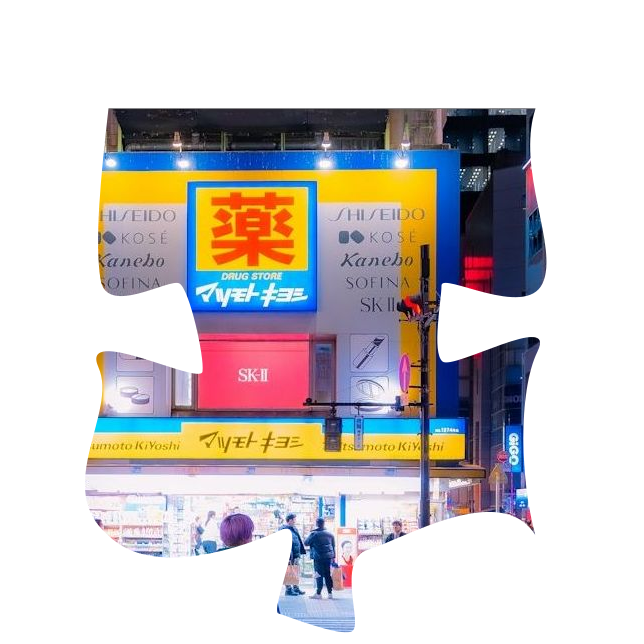
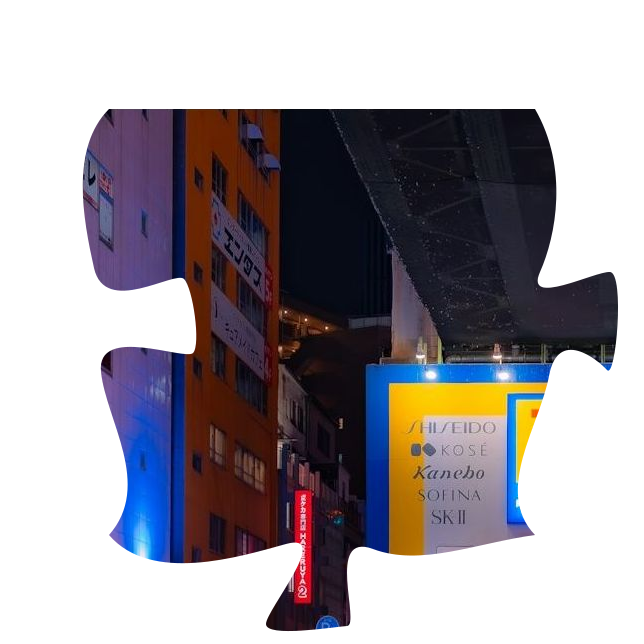
Cutting image into pieces complete.

diff --git a/server/src/service/game-builder.ts b/server/src/service/game-builder.ts
@@ -54,19 +54,23 @@ export const pathGenerator = ({
 export const createPieces = ({
   horizontalPaths,
   verticalPaths,
+  pieceSize,
 }: {
   horizontalPaths: string[];
   verticalPaths: string[];
+  pieceSize: number;
 }) => {
-  const piecesBuilder = new PiecesBuilder({
-    horizontalPaths,
-    verticalPaths,
-  });
+  const piecesBuilder = new PiecesBuilder(
+    {
+      horizontalPaths,
+      verticalPaths,
+    },
+    pieceSize
+  );
 
   // Extract the number of rows and columns from the paths
   const rows = piecesBuilder.horizontalCurves.length + 1;
   const cols = piecesBuilder.verticalCurves.length + 1;
-  const pieceSize = piecesBuilder.pieceSize;
 
   // Generate all curves. Creates curve objects for each path.
   piecesBuilder.generateAllCurves();
@@ -111,13 +115,6 @@ const cutImageToPuzzleSize = async ({
 
   const puzzleWidth = pieceSize * cols;
   const puzzleHeight = pieceSize * rows;
-
-  console.log('Puzzle dimensions:', {
-    puzzleWidth,
-    puzzleHeight,
-    imageWidth: metadata.width,
-    imageHeight: metadata.height,
-  });
 
   const buffer = await image
     .extract({
@@ -194,7 +191,6 @@ export const cutImageIntoPieces = async ({
   enclosedShapesSvg: string[][];
 }) => {
   const pieces: ImagePiece[] = [];
-  console.log({ pieceSize });
 
   // Create pieces_cut directory if it doesn't exist
   const piecesDir = path.join(process.cwd(), 'pieces_cut');
@@ -209,16 +205,6 @@ export const cutImageIntoPieces = async ({
     throw new Error('Invalid image dimensions');
   }
 
-  console.log('Original image dimensions:', {
-    width: metadata.width,
-    height: metadata.height,
-    pieceFootprint,
-    rows,
-    cols,
-    totalWidth: pieceFootprint * cols,
-    totalHeight: pieceFootprint * rows,
-  });
-
   // Cut the image to the puzzle size
   const puzzleImageCut = await cutImageToPuzzleSize({
     imageBuffer,
@@ -227,35 +213,15 @@ export const cutImageIntoPieces = async ({
     cols,
   });
 
-  console.log('Puzzle image cut:', {
-    width: puzzleImageCut.metadata.width,
-    height: puzzleImageCut.metadata.height,
-    pieceFootprint,
-    rows,
-    cols,
-    totalWidth: pieceFootprint * cols,
-    totalHeight: pieceFootprint * rows,
-  });
-
   const paddedImage = await addPaddingToImage({
     imageBuffer: puzzleImageCut.buffer,
     pieceFootprint,
     pieceSize,
   });
 
-  console.log('Image padded:', {
-    width: paddedImage.metadata.width,
-    height: paddedImage.metadata.height,
-    pieceFootprint,
-    rows,
-    cols,
-    totalWidth: pieceFootprint * cols,
-    totalHeight: pieceFootprint * rows,
-  });
-
   // Create pieces based on paths
-  for (let row = 0; row <= rows; row++) {
-    for (let col = 0; col <= cols; col++) {
+  for (let row = 0; row < rows; row++) {
+    for (let col = 0; col < cols; col++) {
       // This offset will center the piece of size pieceSize inside the pieceFootprint
       const translateOffsetX =
         pieceSize * col - (pieceFootprint - pieceSize) / 2;
@@ -267,30 +233,14 @@ export const cutImageIntoPieces = async ({
               <path d="${enclosedShapesSvg[row][col]}" fill="white"/>
             </svg>`;
 
-      console.log(svgMask);
-
-      const extractParams = {
-        left: Math.floor((pieceFootprint - pieceSize) / 2 + pieceSize) * col,
-        top: Math.floor((pieceFootprint - pieceSize) / 2 + pieceSize) * row,
-        width: pieceFootprint,
-        height: pieceFootprint,
-      };
-
-      console.log('Extraction parameters for piece:', {
-        row,
-        col,
-        ...extractParams,
-        exceedsWidth:
-          extractParams.left + extractParams.width >
-          (paddedImage.metadata.width ?? 0),
-        exceedsHeight:
-          extractParams.top + extractParams.height >
-          (paddedImage.metadata.height ?? 0),
-      });
-
-      // Create the piece using composite
+      // Create the piece by first cutting the image and then compositing the svg mask
       const pieceBuffer = await sharp(paddedImage.buffer)
-        .extract(extractParams)
+        .extract({
+          left: pieceSize * col,
+          top: pieceSize * row,
+          width: pieceFootprint,
+          height: pieceFootprint,
+        })
         .composite([
           {
             input: Buffer.from(svgMask),

diff --git a/server/src/core/path.ts b/server/src/core/path.ts
@@ -83,7 +83,7 @@ export class Path {
 
   // Get the maximum footprint of the piece. It will be the piece with both pins out plus the maximum random modifier;
   get pieceFootprint(): number {
-    return Math.round(
+    return Math.ceil(
       (this.pieceSize + this.pinSize * 2) *
         (1 + this.rangeStartEndPoints[1] - this.rangeStartEndPoints[0])
     );
@@ -136,8 +136,8 @@ export class Path {
     const angle = this.randomAngle(angleRange);
 
     const controlPoint: Coordinate = {
-      x: Math.round(from.x + magnitud * Math.cos(angle)),
-      y: Math.round(from.y + magnitud * Math.sin(angle)),
+      x: Math.floor(from.x + magnitud * Math.cos(angle)),
+      y: Math.floor(from.y + magnitud * Math.sin(angle)),
     };
 
     return controlPoint;
@@ -153,27 +153,27 @@ export class Path {
     ) => [
       // First flat edge
       {
-        x: Math.round(this.pieceSize / 2 - this.pinSize / 2),
+        x: Math.floor(this.pieceSize / 2 - this.pinSize / 2),
         y: 0,
       },
       // First side pin
       {
         x: 0,
-        y: Math.round(this.pinSize * pinDirection),
+        y: Math.floor(this.pinSize * pinDirection),
       },
       // Top side pin
       {
-        x: Math.round(this.pinSize),
+        x: Math.floor(this.pinSize),
         y: 0,
       },
       // Second side pin
       {
         x: 0,
-        y: Math.round(this.pinSize * -pinDirection),
+        y: Math.floor(this.pinSize * -pinDirection),
       },
       // Second flat edge
       {
-        x: Math.round(this.pieceSize / 2 - this.pinSize / 2),
+        x: Math.ceil(this.pieceSize / 2 - this.pinSize / 2),
         y: 0,
       },
     ];
@@ -190,8 +190,8 @@ export class Path {
 
       endPointsDelta(pinDirection).forEach((epd, i) => {
         const endPoint = {
-          x: Math.round(prevEndPoint.x + epd.x),
-          y: Math.round(prevEndPoint.y + epd.y),
+          x: Math.floor(prevEndPoint.x + epd.x),
+          y: Math.floor(prevEndPoint.y + epd.y),
         };
 
         prevEndPoint = { ...endPoint };
@@ -215,8 +215,8 @@ export class Path {
           const path = this.path[this.path.length - 1];
 
           const randomizedEndPoint = {
-            x: Math.round(endPoint.x + this.randomEndPoint()),
-            y: Math.round(endPoint.y + this.randomEndPoint()),
+            x: Math.floor(endPoint.x + this.randomEndPoint()),
+            y: Math.floor(endPoint.y + this.randomEndPoint()),
           };
 
           // Since the control point is relative to the end point, we need to update it.
@@ -224,8 +224,8 @@ export class Path {
           const deltaY = randomizedEndPoint.y - endPoint.y;
 
           const randomizedControlEndPoint = {
-            x: Math.round(controlPoint.x + deltaX),
-            y: Math.round(controlPoint.y + deltaY),
+            x: Math.floor(controlPoint.x + deltaX),
+            y: Math.floor(controlPoint.y + deltaY),
           };
 
           newPath = path.replace(

diff --git a/frontend/src/hooks/use-image-to-game-data.ts b/frontend/src/hooks/use-image-to-game-data.ts
@@ -34,10 +34,10 @@ function useImageToGameData({ image, pieceQuantity }: UseImageToGameDataProps) {
         if (pieceQuantity !== rows * columns) continue;
 
         // Since pieces are squares i need the minimun value from sizes relations
-        const pieceSize = Math.min(
-          Math.floor(naturalWidth / columns),
-          Math.floor(naturalHeight / rows)
+        const pieceSize = Math.floor(
+          Math.min(naturalWidth / columns, naturalHeight / rows)
         );
+        console.log("pieceSize", pieceSize);
         // Get the area covered by the iteration
         const gridArea = pieceSize ** 2 * pieceQuantity;
 

diff --git a/server/src/core/pieces-builder.ts b/server/src/core/pieces-builder.ts
@@ -9,15 +9,18 @@ export class PiecesBuilder {
   };
   private _horizontalCurves: Curve[][][] = [];
   private _verticalCurves: Curve[][][] = [];
-  private _pieceSize: number = 0;
+  private _pieceSize: number;
 
-  constructor(paths: { horizontalPaths: string[]; verticalPaths: string[] }) {
+  constructor(
+    paths: { horizontalPaths: string[]; verticalPaths: string[] },
+    pieceSize: number
+  ) {
     this.paths = paths;
+    this._pieceSize = pieceSize;
   }
 
   private parsePath(path: string): string[][] {
     if (path.slice(0, 5) !== 'M 0 0') {
-      console.log('error');
       throw new Error('Invalid path');
     }
 

diff --git a/server/src/routes/game.ts b/server/src/routes/game.ts
@@ -117,8 +117,6 @@ export const gameRoute = new Hono()
       .from(games)
       .where(eq(games.id, Number(gameId)));
 
-    console.log('game', game);
-
     if (!game) {
       throw new HTTPException(404, { message: 'Game not found' });
     }
@@ -140,6 +138,7 @@ export const gameRoute = new Hono()
     const piecesData = gameBuilderService.createPieces({
       horizontalPaths: game.horizontalPaths,
       verticalPaths: game.verticalPaths,
+      pieceSize: game.pieceSize,
     });
 
     // Cut the image into pieces

diff --git a/frontend/src/features/jigsaw-builder/components/paths-mask.tsx b/frontend/src/features/jigsaw-builder/components/paths-mask.tsx
@@ -11,12 +11,6 @@ function PathsMask({ paths, pieceSize, scale }: PathsMaskProps) {
     height: (paths.horizontal.length + 1) * pieceSize,
     width: (paths.vertical.length + 1) * pieceSize,
   };
-  console.log("Paths mask dimensions:", {
-    height: rect.height,
-    width: rect.width,
-    pieceSize,
-    scale,
-  });
 
   return (
     <svg

diff --git a/server/src/core/__tests__/vector.test.ts b/server/src/core/__tests__/vector.test.ts
@@ -56,7 +56,7 @@ describe('Vector', () => {
     it('should rotate vector 90 degrees clockwise', () => {
       const vector = new Vector({ x: 1, y: 0 });
       vector.rotateVector90();
-      console.log(vector.x);
+
       expect(vector.x).toBeCloseTo(0, 10);
       expect(vector.y).toBeCloseTo(1, 10);
     });

diff --git a/frontend/src/routes/index.tsx b/frontend/src/routes/index.tsx
@@ -9,7 +9,6 @@ export const Route = createFileRoute("/")({ component: RouteComponent });
 
 function RouteComponent() {
   const { data: user } = useCurrentUser();
-  console.log({ user });
 
   return (
     <div className="h-full">
